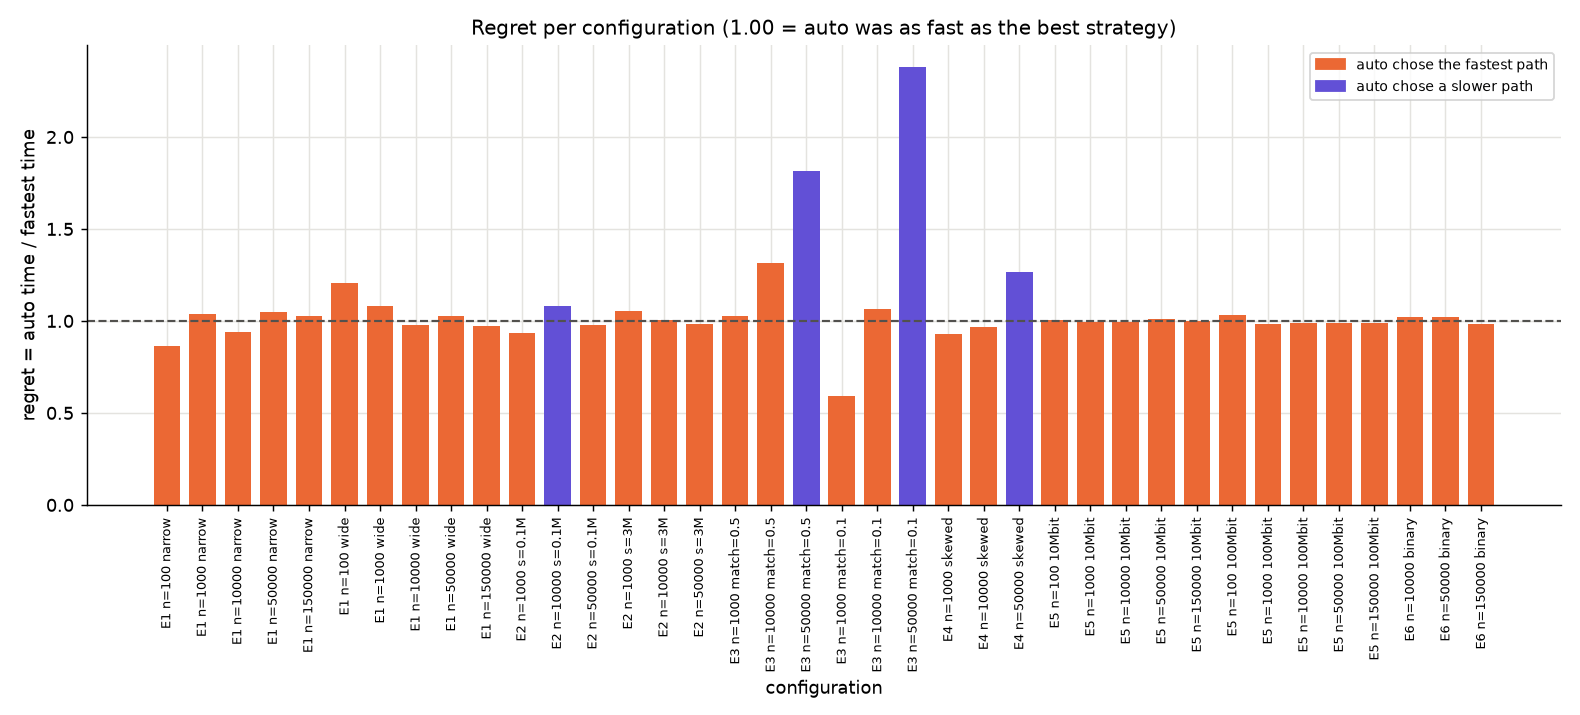
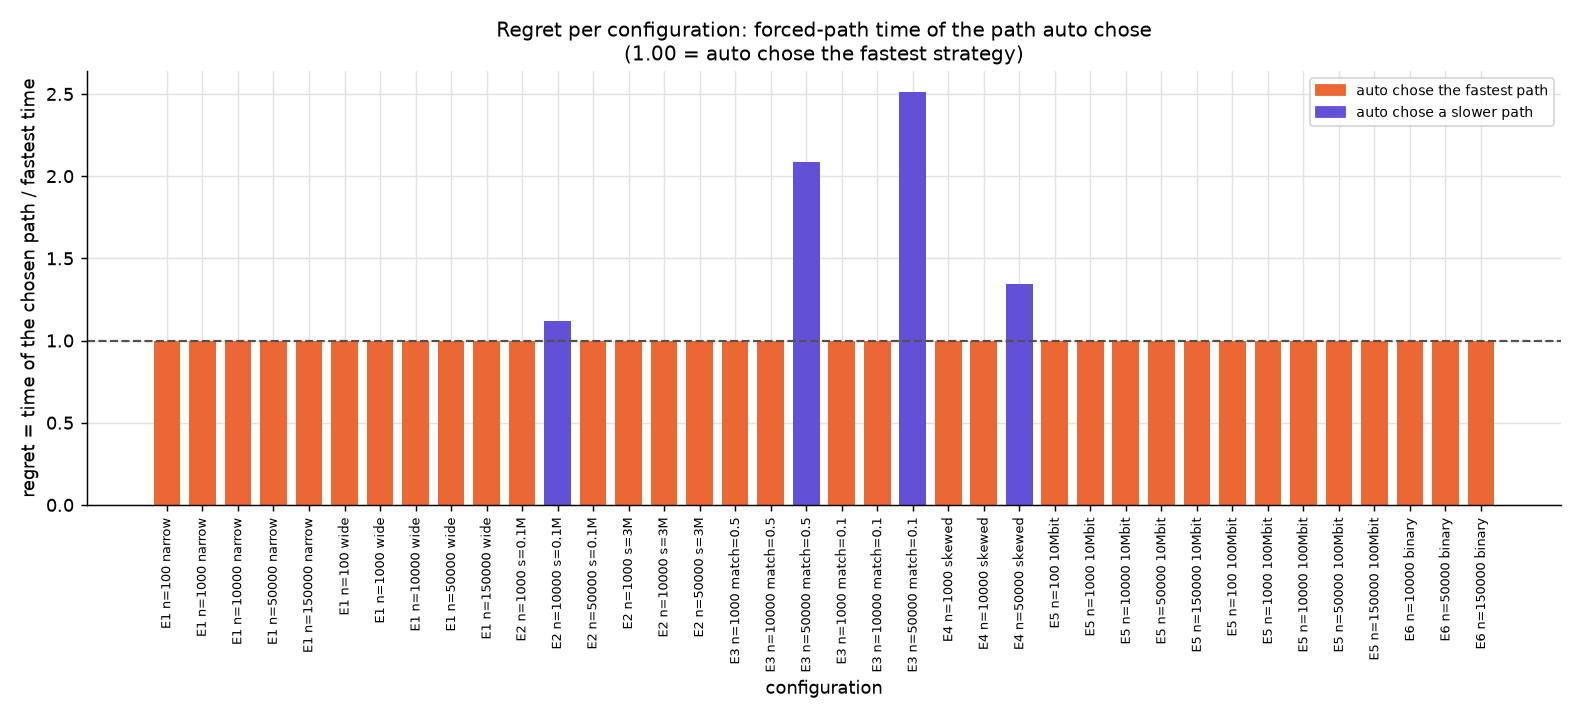
Batch 8b: policy comparison

diff --git a/bench/final_report.py b/bench/final_report.py
@@ -327,6 +327,112 @@ def write_headline(numbers):
 
 
 # ---------------------------------------------------------------------------
+# Batch 8b: policy comparison (no new measurements)
+# ---------------------------------------------------------------------------
+
+# A policy is a rule that picks a strategy for every query. We compare our
+# cost model with three simple rules, using only the FORCED-path times, so
+# the session noise between the auto run and the forced run of the same
+# plan does not count.
+POLICIES = ["original", "always_index", "always_filter", "auto"]
+POLICY_LABELS = {
+    "original": "original\n(plain postgres_fdw)",
+    "always_index": "always index",
+    "always_filter": "always filter",
+    "auto": "auto\n(our cost model)",
+}
+WITHIN_BEST = 1.05      # "within 5% of the best"
+
+
+def policy_time(entry, policy):
+    """
+    The time a policy gets in one configuration (forced-path times).
+
+    Input:  entry, a row of the decision-quality table; policy.
+    Output: the time in ms.
+    """
+    if policy == "original":
+        return entry["original_ms"]
+    if policy == "always_index":
+        return entry["index_ms"]
+    if policy == "always_filter":
+        return entry["filter_ms"]
+    # auto: the forced run of the path the cost model chose
+    if entry["auto_choice"].startswith("filter"):
+        return entry["filter_ms"]
+    return entry["index_ms"]
+
+
+def policy_regrets(table):
+    """
+    The regret of every policy in every configuration, relative to the
+    fastest of original, index and filter.
+
+    Input:  table, from decision_quality.
+    Output: a list of dicts: config, then one regret column per policy.
+    """
+    result = []
+    for entry in table:
+        best_time = min(entry["original_ms"], entry["index_ms"], entry["filter_ms"])
+        row = {"config": entry["config"]}
+        for policy in POLICIES:
+            row[policy] = policy_time(entry, policy) / best_time
+        result.append(row)
+    return result
+
+
+def summarize_policies(regret_rows):
+    """
+    Mean, median and worst regret of each policy, which configuration was
+    the worst, and in how many configurations the policy was within 5% of
+    the best.
+
+    Input:  regret_rows, from policy_regrets.
+    Output: a list of dicts, one per policy.
+    """
+    summary = []
+    for policy in POLICIES:
+        values = [row[policy] for row in regret_rows]
+        worst_row = max(regret_rows, key=lambda row: row[policy])
+        summary.append({
+            "policy": policy,
+            "mean": statistics.mean(values),
+            "median": statistics.median(values),
+            "worst": worst_row[policy],
+            "worst_config": worst_row["config"],
+            "within_5_percent": sum(1 for value in values if value <= WITHIN_BEST),
+            "configurations": len(values),
+        })
+    return summary
+
+
+def write_policy_comparison(regret_rows, summary):
+    """
+    Write policy_comparison.csv (one row per configuration) and
+    policy_comparison.md (the summary table).
+
+    Input:  regret_rows; summary.
+    Output: nothing.
+    """
+    with open(os.path.join(RESULTS_DIR, "policy_comparison.csv"), "w", newline="") as csv_file:
+        writer = csv.DictWriter(csv_file, fieldnames=["config"] + POLICIES)
+        writer.writeheader()
+        for row in regret_rows:
+            writer.writerow(row)
+
+    lines = ["| policy | mean regret | median regret | worst regret (configuration) "
+             "| within 5% of the best |",
+             "|---|---:|---:|---|---:|"]
+    for entry in summary:
+        name = POLICY_LABELS[entry["policy"]].replace("\n", " ")
+        lines.append(f"| {name} | {entry['mean']:,.2f} | {entry['median']:,.2f} "
+                     f"| {entry['worst']:,.2f} ({entry['worst_config']}) "
+                     f"| {entry['within_5_percent']} of {entry['configurations']} |")
+    with open(os.path.join(RESULTS_DIR, "policy_comparison.md"), "w") as md_file:
+        md_file.write("\n".join(lines) + "\n")
+
+
+# ---------------------------------------------------------------------------
 # Charts
 # ---------------------------------------------------------------------------
 
@@ -441,6 +547,39 @@ def chart_bars(table, value_column, ylabel, title, file_name, log_scale=False, r
     axes.legend(handles=[Patch(color=STYLE["auto"]["color"], label="auto chose the fastest path"),
                          Patch(color="#6250d6", label="auto chose a slower path")], fontsize=8)
     save(figure, file_name)
+
+
+def chart_policies(summary):
+    """
+    Batch 8b: mean and worst regret of each policy, side by side (log
+    scale, because "original" is hundreds of times slower), with a line at
+    1.0 (= always as fast as the best strategy).
+
+    Input:  summary, from summarize_policies.
+    Output: nothing.
+    """
+    figure, axes = plt.subplots(figsize=(8, 5))
+    positions = list(range(len(summary)))
+    bar_width = 0.38
+    axes.bar([p - bar_width / 2 for p in positions], [entry["mean"] for entry in summary],
+             width=bar_width * 0.92, color="#2a78d6", label="mean regret")
+    axes.bar([p + bar_width / 2 for p in positions], [entry["worst"] for entry in summary],
+             width=bar_width * 0.92, color="#eb6834", label="worst regret")
+    # print the values on the bars, so the small differences are readable
+    for position, entry in zip(positions, summary):
+        axes.text(position - bar_width / 2, entry["mean"] * 1.08, f"{entry['mean']:.2f}",
+                  ha="center", fontsize=8, color="#0b0b0b")
+        axes.text(position + bar_width / 2, entry["worst"] * 1.08, f"{entry['worst']:.2f}",
+                  ha="center", fontsize=8, color="#0b0b0b")
+    axes.axhline(1.0, color="#52514e", linewidth=1.2, linestyle="--")
+    axes.set_yscale("log")
+    axes.set_xticks(positions)
+    axes.set_xticklabels([POLICY_LABELS[entry["policy"]] for entry in summary], fontsize=9)
+    style_axes(axes, f"Regret of four policies over {summary[0]['configurations']} configurations\n"
+                     "(forced-path times; 1.00 = always as fast as the best strategy)",
+               "", "regret = policy time / fastest time (log scale)")
+    axes.legend(fontsize=8)
+    save(figure, "policy_regret.png")
 
 
 def chart_predicted_vs_measured(rows):
@@ -654,14 +793,26 @@ def main():
     with open(os.path.join(RESULTS_DIR, "headline.md")) as md_file:
         print(md_file.read())
 
+    # Batch 8b: four policies, forced-path times only
+    regret_rows = policy_regrets(table)
+    policy_summary = summarize_policies(regret_rows)
+    write_policy_comparison(regret_rows, policy_summary)
+    print("Policy comparison (regret vs the fastest of original/index/filter, forced-path times):")
+    with open(os.path.join(RESULTS_DIR, "policy_comparison.md")) as md_file:
+        print(md_file.read())
+
     print("Charts:")
     chart_e1(rows, "time_ms", "end-to-end time (ms, log scale)", "time_vs_n",
              "E1: query time vs n")
     chart_e1(rows, "measured_bytes", "measured bytes on lo (log scale)", "bytes_vs_n",
              "E1: real network bytes vs n")
-    chart_bars(table, "regret", "regret = auto time / fastest time",
-               "Regret per configuration (1.00 = auto was as fast as the best strategy)",
+    # Batch 8b: the forced run of the path auto chose (path_regret), so no
+    # bar falls below 1.0 because of session noise
+    chart_bars(table, "path_regret", "regret = time of the chosen path / fastest time",
+               "Regret per configuration: forced-path time of the path auto chose\n"
+               "(1.00 = auto chose the fastest strategy)",
                "regret.png", reference=1.0)
+    chart_policies(policy_summary)
     chart_bars(table, "speedup", "speedup = original time / auto time (log scale)",
                "Speedup of auto over plain postgres_fdw, per configuration",
                "speedup.png", log_scale=True, reference=1.0)

diff --git a/CLAUDE.md b/CLAUDE.md
@@ -68,12 +68,13 @@ A cost model chooses the mode and the Bloom filter size m (dynamic sizing, chose
 - If a check fails, do not hack around it. Show me the output and explain what you think is wrong.
 
 ## Current status and lessons learned
-- Batches 0, 1, 2, 3, 4, 5, 5b, 6, 6b, 7 and 8 are done and committed. The false-positive work is FINISHED: filter version 3 = enhanced double hashing, step h2 not forced odd, early exit in sjb_bloom_test, SJB_VERSION 3 (details and v1/v2/v3 tables in docs/fp_investigation.md; branch fp-investigation is kept as a record). The mid-sem charts and CSVs in docs/midsem/ are from version 3; the original Batch 4 (v1) charts are kept in docs/midsem/v1/. results/ stays in .gitignore. Batch 5 added the EXACT and PASS modes (SJB_VERSION stays 3: BLOOM is unchanged), sjb_build_auto, sjb_choice_report, sjb_plan_choice, calibrate.py and validate_model.py. Batch 6 is done too (see below).
+- Batches 0, 1, 2, 3, 4, 5, 5b, 6, 6b, 7, 8 and 8b are done and committed. The false-positive work is FINISHED: filter version 3 = enhanced double hashing, step h2 not forced odd, early exit in sjb_bloom_test, SJB_VERSION 3 (details and v1/v2/v3 tables in docs/fp_investigation.md; branch fp-investigation is kept as a record). The mid-sem charts and CSVs in docs/midsem/ are from version 3; the original Batch 4 (v1) charts are kept in docs/midsem/v1/. results/ stays in .gitignore. Batch 5 added the EXACT and PASS modes (SJB_VERSION stays 3: BLOOM is unchanged), sjb_build_auto, sjb_choice_report, sjb_plan_choice, calibrate.py and validate_model.py. Batch 6 is done too (see below).
 - Batch 5b is done: per_message_ms, per_row_us, end-to-end t_lookup_us and t_build_us were added (the open decision from Batch 5 is closed). Validation (covered part = Foreign Scan time): exact_keys ratio 0.76-1.08 for n >= 1000; Bloom 0.89-1.08 at n <= 1000 but 1.16-1.32 at n = 10000-50000. Break-even index vs filter: predicted 35,000 keys at 1000 Mbit (measured ~65,000) and 8,500 at 1 Mbit (simulated measured ~11,800); see docs/WALKTHROUGH.md, Batch 5b.
 - Batch 6 is done: planner hook in postgres_fdw (contrib/postgres_fdw/semijoin.c, branch cs631-semijoin of ~/postgres/postgresql, base a85b5523e6; commit 5bd76f4ebc), exported to patches/postgres_fdw-semijoin.patch (also applies to plain REL_18_6). GUCs postgres_fdw.enable_semijoin / semijoin_force_path / semijoin_verbose / semijoin_network_mbit / semijoin_max_filter_kb / the five calibrated constants; server/table option semijoin_filter (opt-in, table wins). queries/correctness_auto.sql: 18/18 comparisons 0.
 - Batch 6b is done (postgres_fdw commit 2c357700f4, patch re-exported, applies to REL_18_6): attach_condition is the last and only write to the Query; no rewrite in parallel mode; n_est now uses estimate_num_groups' formula D*(1-((N-r)/N)^(N/D)) (Yao 1977 / Dell'Era), not Cardenas (n=150000: 136,067 vs 139,294 true; Cardenas gave 99,363); sjb_plan_choice and sjb_choice_report have a 12th argument max_filter_bytes int8 DEFAULT 1048576, and the hook passes semijoin_max_filter_kb*1024 to them and to sjb_build_auto. postgres_fdw installcheck passes (TAP tests not enabled in this tree).
 - Batch 7 is done (postgres_fdw commit 2c34d26d89, patch re-exported, applies to REL_18_6): SemijoinHint (set only while the rewritten query is planned, restored in PG_FINALLY) -> pgfdw_apply_semijoin_hint in postgresGetForeignRelSize sets baserel->rows = sjb_expected_remote_rows * selectivity of the other conditions (only query_level 1, OID match, our clause found); EXPLAIN shows Semijoin Path / Estimated Keys / Predicted Time from fdw_private position 4 (NULL placeholder at position 3 for plain scans; the join test in postgresExplainForeignScan now also checks it is not NULL); EXPLAIN ANALYZE decodes the parameter in create_cursor (param_values live in per-tuple memory). GUC postgres_fdw.semijoin_binary_filter (default off) sends bytea params in binary; sjbloom report functions have a trailing wire_factor DEFAULT 2; new sjb_expected_remote_rows and sjb_predicted_ms (path argument, then wire_factor). Our test contrib/postgres_fdw/sql/semijoin.sql is NOT in REGRESS (needs sjbloom): make installcheck REGRESS=semijoin. n=1000: Nested Loop 117 ms -> Hash Join 6.7 ms.
 - Batch 8 (final evaluation) is done: no C changes. bench/final_eval.py (5 strategies original/fdw_param/auto/index/filter, E1-E6, fresh connection + EXPLAIN ANALYZE CREATE UNLOGGED TABLE warm-up + median of 3 end-to-end, bytes from /proc/net/dev lo) and bench/final_report.py (decision quality, charts). setup/make_data.sh S_ROWS MATCH_FRACTION uniform|skewed regenerates both sites and ANALYZEs the foreign table (default args reproduce setup_all.sh's rows exactly). Results in docs/final/ (summary.md = presentation text): 180/180 correct, 34/38 correct choices, regret mean 1.07 / worst 2.38, speedup geomean 36x (1.35x-2597x), 96.6% fewer bytes. Losses: match fraction < 1 (model assumes every key exists at B; missing-key lookups are cheap), skewed keys at n=50000 (index locality), near-ties.
+- Batch 8b (policy comparison, no new measurements; final_report.py, forced-path times): mean/worst regret original 231/2610, always-index 1.03/1.22 (32/38 within 5%), always-filter 8.08/50.2, auto 1.08/2.51 (34/38). Always-index beats auto on mean and worst because int4 key lists are compact (6.9 B/key text vs Bloom ~3.1 B/key hex) and the rows back dominate; filter wins only 2-22% (n >= 50000; on localhost from B's scan-vs-lookups work, not bytes). Without E3/E4 auto wins (1.004 vs 1.037). Bloom would matter for wide keys (UUID ~37 B/key: calculation only).
 - Batch 8 lessons: (1) connect the Python client through the Unix socket (host=/tmp) so lo only carries postgres_fdw's A<->B traffic; lo rx = tx; background noise ~0.5-2 KB/s. (2) CHECK THE HOST FIRST: in Windows power-saving mode a SELECT 1 round trip is ~175 us instead of ~50 us and the 1M-row fdw fetch 3.3 s instead of 1.4 s; measure only after Best performance mode. (3) tc netem works in this WSL kernel (sch_netem module; the user runs sudo); `tc qdisc show dev lo` needs no sudo. With netem delay 1ms one postgres_fdw round trip is 2.26 ms (100 Mbit) / 2.42 ms (10 Mbit), measured as (scan with fetch_size 100 - fetch_size 10000)/49; a tiny remote query is ~5 round trips (START TRANSACTION, DECLARE, FETCH, CLOSE, COMMIT), not 1. (4) The model counts 1 + ceil(R/fetch_size) messages and misses ~4 fixed round trips per query (8-11 ms under 1 ms delay). (5) With loopback network constants at 10 Mbit the choices did not change but predicted times were 10-20x too low. (6) psycopg cursor.execute() returns after the whole result is in libpq: time it without fetchall; use prepare_threshold=None.
 - postgres_fdw.h is not dependency-tracked either: after changing it, `make -C contrib/postgres_fdw clean` before building.
 - KNOWN LIMITATION (Batch 7): the PATH DECISION (index vs filter) ignores extra conditions on the foreign table alone, such as c.city = 'X'; only the row estimate (pgfdw_apply_semijoin_hint: expected_rows * selectivity of the other conditions) accounts for them. Both paths are affected about equally (fewer rows back on either path), so the choice is rarely changed, but it is not modelled.

diff --git a/docs/final/summary.md b/docs/final/summary.md
@@ -89,6 +89,59 @@ Two more cases are worth knowing:
 - **The filter path at small n.** At n = 100 the filter path is about 50× slower than the index path (100 ms vs 2 ms), because B checks all 1,000,000 rows. The model never chose it there.
 - **Measurement noise.** E3 with n = 10,000 and 50% of the keys at B shows regret 1.32, although auto chose the right path. Auto and index ran the identical plan; the difference is session-to-session noise.
 
+## Does the adaptive choice beat a simple rule?
+
+A **policy** is a rule that picks a strategy for every query. We compare our cost model with three simple rules. All four use only the forced-path times, so session noise between auto and its forced twin does not count. Regret is measured against the fastest of original, index and filter, over all 38 configurations. No new measurements: this uses the decision-quality data above (`policy_comparison.csv`, `policy_regret.png`).
+
+| policy | mean regret | median regret | worst regret (configuration) | within 5% of the best |
+|---|---:|---:|---|---:|
+| original (plain postgres_fdw) | 231.20 | 24.81 | 2,609.97 (E5 n=100 10Mbit) | 0 of 38 |
+| always index | **1.03** | 1.00 | **1.22** (E1 n=150000 narrow) | 32 of 38 |
+| always filter | 8.08 | 2.49 | 50.16 (E2 n=1000 s=3M) | 11 of 38 |
+| auto (our cost model) | 1.08 | 1.00 | 2.51 (E3 n=50000 match=0.1) | **34 of 38** |
+
+**The big win is the semijoin itself, not the choice between its two paths.**
+- Plain postgres_fdw is 25× slower than the best strategy in the median configuration, and never within 5% of it.
+- Its smallest regret is 1.32 (E2 n=50000, 100,000 customers), so sending B the keys was faster in every one of the 38 configurations.
+
+**On this workload, "always index" is a strong simple rule. It is slightly better than our cost model on average (1.03 vs 1.08) and in the worst case (1.22 vs 2.51).**
+- An int4 key list is compact. As text it costs 6.9 bytes per key: 959,553 bytes for 139,294 keys at n = 150,000. The Bloom filter sent instead is 432,792 bytes (hex), only 2.2× smaller.
+- Next to the 5.2 MB of rows that both paths bring back, that difference is small.
+- "Always filter" is a poor rule. At small n, site B still scans every row: 359 ms instead of 7 ms with 3,000,000 customers.
+
+**The filter path (usually Bloom) wins only by 2–22%.** It was faster than the index path in 11 of 38 configurations, all with n ≥ 50,000. Always-index's regret there is 1.019–1.224:
+
+| where the filter path won | always-index regret | saved by the filter path |
+|---|---:|---:|
+| localhost, n = 50,000 (narrow / wide / binary) | 1.04 / 1.12 / 1.11 | 13 / 38 / 33 ms |
+| localhost, n = 150,000 (narrow / wide / binary) | 1.22 / 1.16 / 1.21 | 116 / 93 / 111 ms |
+| 100,000 customers, n = 50,000 | 1.05 | 6 ms |
+| 100 Mbit, n = 50,000 / 150,000 (EXACT mode, not Bloom) | 1.02 / 1.04 | 30 / 161 ms |
+| 10 Mbit, n = 50,000 / 150,000 (Bloom) | 1.04 / 1.06 | 105 / 439 ms |
+
+Two honest corrections to the usual "Bloom wins on slow networks" story:
+
+- **On localhost the filter path wins because of site B's work, not because of the bytes.** At n = 150,000 the two paths differ by only 0.45 MB (5.68 vs 5.23 MB), which is 4 ms at 1000 Mbit/s. The 116 ms come from B scanning 1,000,000 rows once instead of making 139,294 index lookups.
+- **On the slow network the absolute saving grows, but the percentage does not.**
+  - At 10 Mbit, n = 150,000, Bloom saves 439 ms. That matches the 527 KB smaller filter: 959,553 − 432,792 bytes = 0.42 s at 10 Mbit.
+  - That is still only 6% of the 7.9 s total, because the 5.2 MB of rows coming back are the same on both paths and dominate the time.
+  - At 100 Mbit the cost model even preferred an EXACT key list, because each Bloom false positive is an extra row that costs FETCH round trips.
+
+**Auto's mistakes cost more than its wins.** Where auto correctly picked the filter path, it saved 2–22% over always-index (the regrets in the table above). Its four wrong choices cost more:
+
+| auto's wrong choice | auto regret (forced path) | why |
+|---|---:|---|
+| E3, n = 50,000, 10% of keys at B | 2.51 | the model assumes every key exists at B; missing keys are cheap to look up |
+| E3, n = 50,000, 50% of keys at B | 2.09 | same reason |
+| E4, n = 50,000, skewed keys | 1.34 | clustered keys make index lookups cache-friendly (not modelled) |
+| E2, n = 10,000, 100,000 customers | 1.12 | a near tie |
+
+Without E3 and E4 (two factors the model does not know about), auto beats always-index: over the remaining 29 configurations, mean regret 1.004 vs 1.037 and worst 1.12 vs 1.22. So the model is good when its assumptions hold. Its weakness is the assumptions, not the arithmetic.
+
+**Where Bloom should matter more (a calculation, not a measurement):**
+- **Wide keys.** Version 1 supports only int4 keys. A key list of UUIDs as text would cost about 37 bytes per key instead of 6.9. That is about 5.15 MB instead of 0.96 MB for the same 139,294 keys, while the Bloom filter stays 433 KB, because its size depends on the number of keys, not their width. At 10 Mbit the extra 4.2 MB would add about 3.4 s to the index path: about 11.7 s against the filter path's 7.9 s, a 32% win instead of the measured 6%. For text keys or UUIDs the filter's compactness would decide the choice; for int4 it barely matters.
+- **Slower networks.** Here this holds only together with wide keys or a filter that removes many more rows. As long as both paths return the same rows, a slower network makes both slower about equally.
+
 ## Known limitations
 
 - **Version 1 scope:** only INNER JOIN, one equality join condition, int4 keys. Set operations (such as EXCEPT ALL) and queries planned in parallel mode are not rewritten.
@@ -117,9 +170,10 @@ Our byte estimates were within ±6% of the measured bytes for every transfer abo
 |---|---|
 | `time_vs_n_narrow.png`, `time_vs_n_wide.png` | E1: end-to-end time vs n, per strategy |
 | `bytes_vs_n_narrow.png`, `bytes_vs_n_wide.png` | E1: real bytes on the network vs n |
-| `regret.png` | regret per configuration (purple = a wrong choice), line at 1.0 |
+| `regret.png` | regret per configuration, using the forced-path time of the path auto chose (purple = a wrong choice), line at 1.0 |
+| `policy_regret.png` | mean and worst regret of the four policies: original, always index, always filter, auto |
 | `speedup.png` | speedup of auto over plain postgres_fdw, per configuration |
 | `predicted_vs_measured.png` | the model's predicted time vs the measured time, with y = x; red = model not told about the network |
 | `e2_s_rows.png` … `e6_binary_filter.png` | one chart per experiment |
 
-The full decision-quality table (one row per configuration) is in `decision_quality.md` and `decision_quality.csv`.
+The full decision-quality table (one row per configuration) is in `decision_quality.md` and `decision_quality.csv`; the policy regrets per configuration are in `policy_comparison.csv`.

diff --git a/docs/WALKTHROUGH.md b/docs/WALKTHROUGH.md
@@ -1535,3 +1535,27 @@ cp results/final/*.png results/final/*.md results/final/*.csv docs/final/
 ```
 
 To follow a run: `tail -f results/final/run_*.log` (if you redirect the output there, as we did). Each line shows one strategy: median time, measured bytes, rows sent by B, join type, path/mode and `correct=`.
+
+## Batch 8b: does the adaptive choice beat a simple rule?
+
+No new measurements. `bench/final_report.py` now also compares four **policies**: original, always-index, always-filter and auto. It uses only the **forced-path** times, so the noise between an auto session and the forced session of the same plan does not count. Auto's time is the forced time of the path it chose. Each policy's regret is its time / the fastest of original, index and filter.
+
+- `policy_regrets()` and `summarize_policies()` compute the regret per configuration, then the mean, median, worst (with its configuration) and the number of configurations within 5% of the best.
+- They write `results/final/policy_comparison.csv` (one row per configuration) and `policy_comparison.md` (the summary table), and draw `policy_regret.png` (mean and worst regret per policy, log scale).
+- `regret.png` now shows `path_regret`, the forced time of the chosen path. So no bar falls below 1.0 because of session noise.
+
+| policy | mean regret | median | worst | within 5% of the best |
+|---|---:|---:|---|---:|
+| original | 231.20 | 24.81 | 2,609.97 (E5 n=100 10Mbit) | 0 of 38 |
+| always index | 1.03 | 1.00 | 1.22 (E1 n=150000 narrow) | 32 of 38 |
+| always filter | 8.08 | 2.49 | 50.16 (E2 n=1000 s=3M) | 11 of 38 |
+| auto | 1.08 | 1.00 | 2.51 (E3 n=50000 match=0.1) | 34 of 38 |
+
+In plain words:
+- The semijoin is the big win over plain postgres_fdw.
+- With compact int4 keys, "always index" is a strong simple rule, slightly better than auto on average. The filter path wins only by 2–22% (large n), and on localhost that win comes from site B's work (one scan instead of many lookups), not from the bytes.
+- Auto's E3/E4 mistakes (regret 2.09, 2.51, 1.34) cost more than its wins. Without E3/E4, auto beats always-index: mean 1.004 vs 1.037.
+
+`docs/final/summary.md`, section "Does the adaptive choice beat a simple rule?", gives the numbers behind each statement. It also has the calculation, not a measurement, of why wide keys such as UUIDs would make the Bloom filter matter much more.
+
+Rerun: `.venv/bin/python bench/final_report.py`, then copy `results/final/` to `docs/final/` as in Batch 8.

diff --git a/docs/final/policy_comparison.md b/docs/final/policy_comparison.md
@@ -1,0 +1,6 @@
+| policy | mean regret | median regret | worst regret (configuration) | within 5% of the best |
+|---|---:|---:|---|---:|
+| original (plain postgres_fdw) | 231.20 | 24.81 | 2,609.97 (E5 n=100 10Mbit) | 0 of 38 |
+| always index | 1.03 | 1.00 | 1.22 (E1 n=150000 narrow) | 32 of 38 |
+| always filter | 8.08 | 2.49 | 50.16 (E2 n=1000 s=3M) | 11 of 38 |
+| auto (our cost model) | 1.08 | 1.00 | 2.51 (E3 n=50000 match=0.1) | 34 of 38 |
